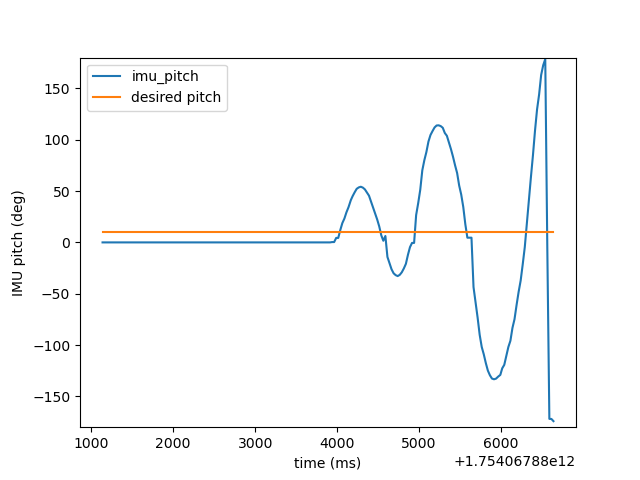
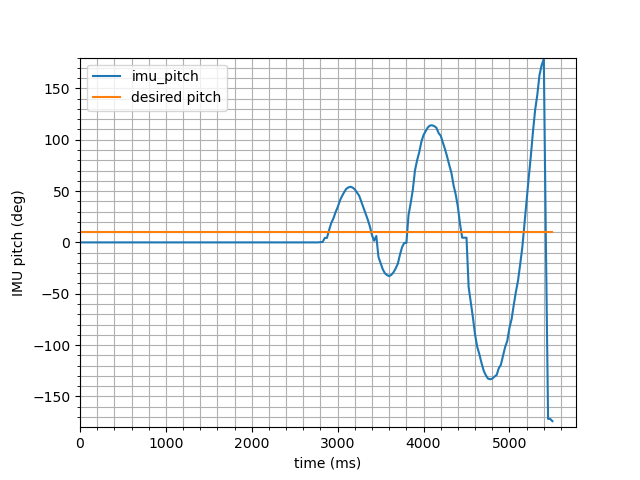
changed graphing script

diff --git a/Code/Code/ros2_ws/src/torsobot/src/graphing.py b/Code/Code/ros2_ws/src/torsobot/src/graphing.py
@@ -24,6 +24,9 @@ df = pd.read_csv(csv_file_path)
 time_value = df["timestamp"]
 imu_pitch_data = df["IMU_pitch"]
 
+zero_time = time_value[0]
+time_value = time_value - zero_time
+
 desired_pitch_value = np.ones(len(time_value))*10  # df["desired_pitch_data"]
 
 # change data
@@ -32,9 +35,14 @@ imu_pitch_data = rad2deg(imu_pitch_data)
 
 plt.plot(time_value, imu_pitch_data, label="imu_pitch")
 plt.plot(time_value, desired_pitch_value, label="desired pitch")
+
+plt.minorticks_on()
+plt.grid(which="both")
+
 plt.xlabel("time (ms)")
 plt.ylabel("IMU pitch (deg)")
 plt.ylim([-180, 180])
+plt.xlim(xmin=0)
 plt.legend()
 
 
